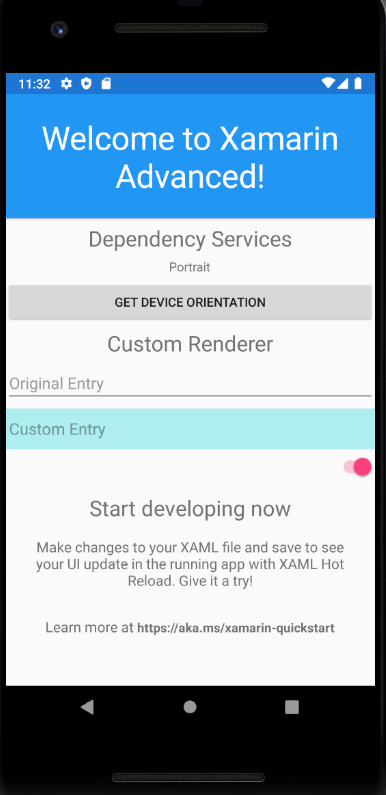
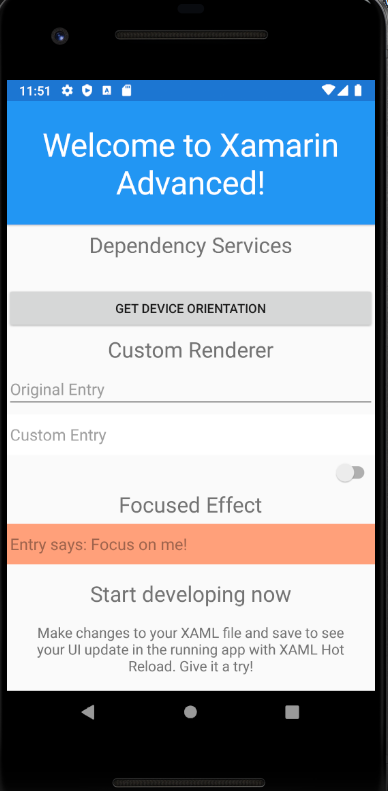
added focused effect

diff --git a/MobileDev07.XamarinAdvanced/MobileDev07.XamarinAdvanced/Views/HomePage.xaml b/MobileDev07.XamarinAdvanced/MobileDev07.XamarinAdvanced/Views/HomePage.xaml
@@ -3,6 +3,7 @@
              xmlns:x="http://schemas.microsoft.com/winfx/2009/xaml" 
              xmlns:viewmodels="clr-namespace:MobileDev07.XamarinAdvanced.ViewModels"
              xmlns:controls="clr-namespace:MobileDev07.XamarinAdvanced.Controls"
+             xmlns:effects="clr-namespace:MobileDev07.XamarinAdvanced.Effects"
              x:DataType="viewmodels:HomeViewModel"
              x:Class="MobileDev07.XamarinAdvanced.Views.HomePage">
     <ContentPage.Content>
@@ -19,6 +20,13 @@
             <Entry x:Name="inputEntry" Placeholder="Original Entry"/>
             <controls:CustomEntry Placeholder="Custom Entry" HasColor="{Binding Source={x:Reference enableColorSwitch}, Path=IsToggled}"/>
             <Switch x:Name="enableColorSwitch"/>
+
+            <Label Text="Focused Effect" FontSize="Title"/>
+            <Entry Placeholder="Entry says: Focus on me!">
+                <Entry.Effects>
+                    <effects:FocusEffect/>
+                </Entry.Effects>
+            </Entry>
 
             <Label Text="Start developing now" FontSize="Title" Padding="30,10,30,10"/>
             <Label Text="Make changes to your XAML file and save to see your UI update in the running app with XAML Hot Reload. Give it a try!" FontSize="16" Padding="30,0,30,0"/>

diff --git a/MobileDev07.XamarinAdvanced/MobileDev07.XamarinAdvanced.Android/Effects/AndroidFocusEffect.cs b/MobileDev07.XamarinAdvanced/MobileDev07.XamarinAdvanced.Android/Effects/AndroidFocusEffect.cs
@@ -1,0 +1,56 @@
+using System;
+using Xamarin.Forms;
+using Xamarin.Forms.Platform.Android;
+
+[assembly: ResolutionGroupName("MyXamFX")]
+[assembly: ExportEffect(typeof(MobileDev07.XamarinAdvanced.Droid.Effects.AndroidFocusEffect), nameof(MobileDev07.XamarinAdvanced.Droid.Effects.AndroidFocusEffect))]
+namespace MobileDev07.XamarinAdvanced.Droid.Effects
+{
+    class AndroidFocusEffect : PlatformEffect
+    {
+        Android.Graphics.Color originalBackgroundColor = Android.Graphics.Color.LightPink;
+        Android.Graphics.Color backgroundColor;
+
+        protected override void OnAttached()
+        {
+            try
+            {
+                backgroundColor = Android.Graphics.Color.LightSalmon;
+                Control.SetBackgroundColor(backgroundColor);
+            }
+            catch (Exception ex)
+            {
+                Console.WriteLine("Cannot set property on attached control. Error: ", ex.Message);
+            }
+        }
+
+        protected override void OnDetached()
+        {
+            
+        }
+
+        protected override void OnElementPropertyChanged(System.ComponentModel.PropertyChangedEventArgs args)
+        {
+            base.OnElementPropertyChanged(args);
+            try
+            {
+                if (args.PropertyName == "IsFocused")
+                {
+                    if (((Android.Graphics.Drawables.ColorDrawable)Control.Background).Color == backgroundColor)
+                    {
+                        Control.SetBackgroundColor(originalBackgroundColor);
+                    }
+                    else
+                    {
+                        Control.SetBackgroundColor(backgroundColor);
+                    }
+                }
+            }
+            catch (Exception ex)
+            {
+                Console.WriteLine("Cannot set property on attached control. Error: ", ex.Message);
+            }
+        }
+
+    }
+}

diff --git a/MobileDev07.XamarinAdvanced/MobileDev07.XamarinAdvanced/Effects/FocusEffect.cs b/MobileDev07.XamarinAdvanced/MobileDev07.XamarinAdvanced/Effects/FocusEffect.cs
@@ -1,0 +1,15 @@
+using System;
+using System.Collections.Generic;
+using System.Text;
+using Xamarin.Forms;
+
+namespace MobileDev07.XamarinAdvanced.Effects
+{
+    public class FocusEffect : RoutingEffect
+    {
+        public FocusEffect() : base("MyXamFX.AndroidFocusEffect")
+        {
+
+        }
+    }
+}

diff --git a/README.md b/README.md
@@ -3,3 +3,4 @@
 
 ![Alt text](Evidences/DeviceOrientation.png?raw=true "DeviceOrientation")
 ![Alt text](Evidences/CustomRenderer.png?raw=true "CustomRenderer")
+![Alt text](Evidences/FocusedEffect.png?raw=true "FocusedEffect")
